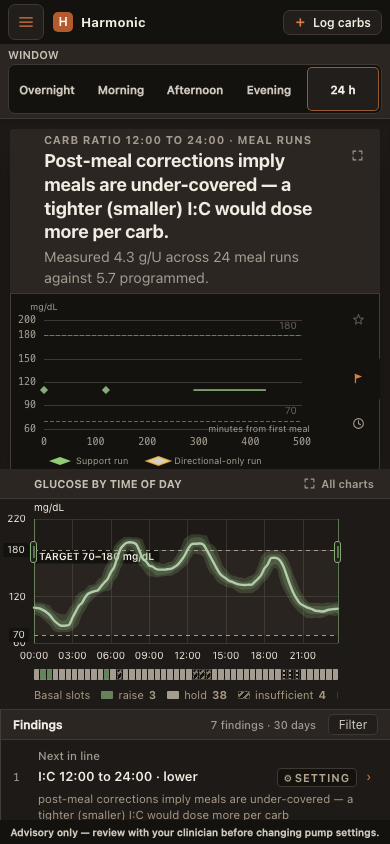
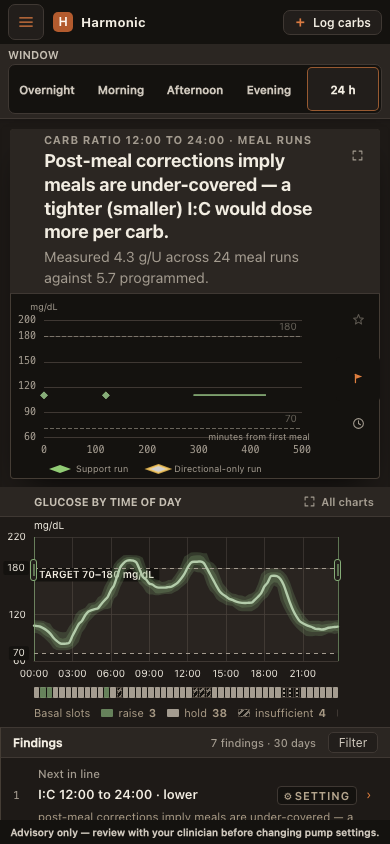
Record phone CI correction and refresh retained render

Changed region(s): [[0.0, 0.3697, 0.9538, 0.9858], [0.7077, 0.3697, 0.7692, 0.4005]]

diff --git a/openspec/changes/findings-layout-exploration/evidence/ci-phone-correction.md b/openspec/changes/findings-layout-exploration/evidence/ci-phone-correction.md
@@ -1,0 +1,11 @@
+# Phone CI correction
+
+PR #346 exposed two repeatable Linux workstation failures: a touch target detached while new window evidence repainted, and a long title squeezed its chart below the existing readability thresholds. [Failing run](https://github.com/harmonichq/harmonic/actions/runs/34018113058).
+
+Correction `4030c510219ad09aa7a3d7a0d0e2487eca1dfbcc` lets the phone spotlight and its parent row grow with the title, preserving a 170px chart-host minimum. The touch test waits for the rendered preview hosts to have canvases before acquiring the All charts target. Actual touch gestures and all existing assertions remain.
+
+A wider-font probe failed before the correction (153.55px host, 86px plot, 12.29px tick gap) and passed afterward (170px host, 102px plot, 14.57px tick gap). Full workstation: 60/60. Full app replay: 163/163. Affected logic: 54/54 and source-coupled extracts current. Independent coordinator regression check: 3/3. Initial unsuccessful probes remain in local scratch; they are not represented as passing runs.
+
+Both independent Luna review axes converged, six criteria each. Standards covered public tests, locality, generated copies, scroll containment, consistency, and falsifiable readiness. Spec covered touch/window behavior, plot floors, header separation, queue charts, fullscreen/desktop preservation, and evidence. Remote CI remains the final check.
+
+The retained `final-projection/final-390x844-root.png` was replaced with the coordinator’s post-correction render of the same synthetic projection at 390×844. All other retained images keep their earlier provenance. No new screenshot files were added.

diff --git a/openspec/changes/findings-layout-exploration/evidence/README.md b/openspec/changes/findings-layout-exploration/evidence/README.md
@@ -10,7 +10,7 @@ The retained set contains nine synthetic screenshots. Repeated viewport matrices
 | Phone, 390×844 | [Before phone correction](phone-flow-followup/before-bc58840-390x844-root.png) | [Continuous page flow](final-projection/final-390x844-root.png) |
 | Phone queue, 390×844 | [Before phone correction](phone-flow-followup/before-bc58840-390x844-scrolled-queue.png) | [Retained queue charts](final-projection/final-390x844-scrolled-queue.png) |
 
-These projection captures use the existing synthetic replay inputs. The desktop baseline is the original ticket baseline; phone baselines are the rejected pre-correction revision `bc58840`. The final captures are from `b7b8ade`, as described in the adjacent manifests. They establish layout comparisons, not passing remote CI: PR #346 subsequently reported two phone-test failures.
+These projection captures use the existing synthetic replay inputs. The desktop baseline is the original ticket baseline; phone baselines are the rejected pre-correction revision `bc58840`. The final captures are from `b7b8ade`, as described in the adjacent manifests. The retained phone root was subsequently refreshed for the [phone CI correction](ci-phone-correction.md); that note records its provenance and verification.
 
 ## Design decision context
 

diff --git a/openspec/changes/findings-layout-exploration/evidence/final-projection/MANIFEST.md b/openspec/changes/findings-layout-exploration/evidence/final-projection/MANIFEST.md
@@ -18,3 +18,5 @@ PAYLOAD=mockups/diagnose-workstation.synthetic/payload.json CAPTURE_OUTPUT=/tmp/
 ```
 
 `PLAYWRIGHT_MODULE` and `VENDOR_DIR` must point to the existing browser-gate dependencies. Chromium requires an execution environment that permits its launch.
+
+The retained 390×844 root image was subsequently replaced by the [phone CI correction](../ci-phone-correction.md) render; other retained images keep the capture provenance above.
